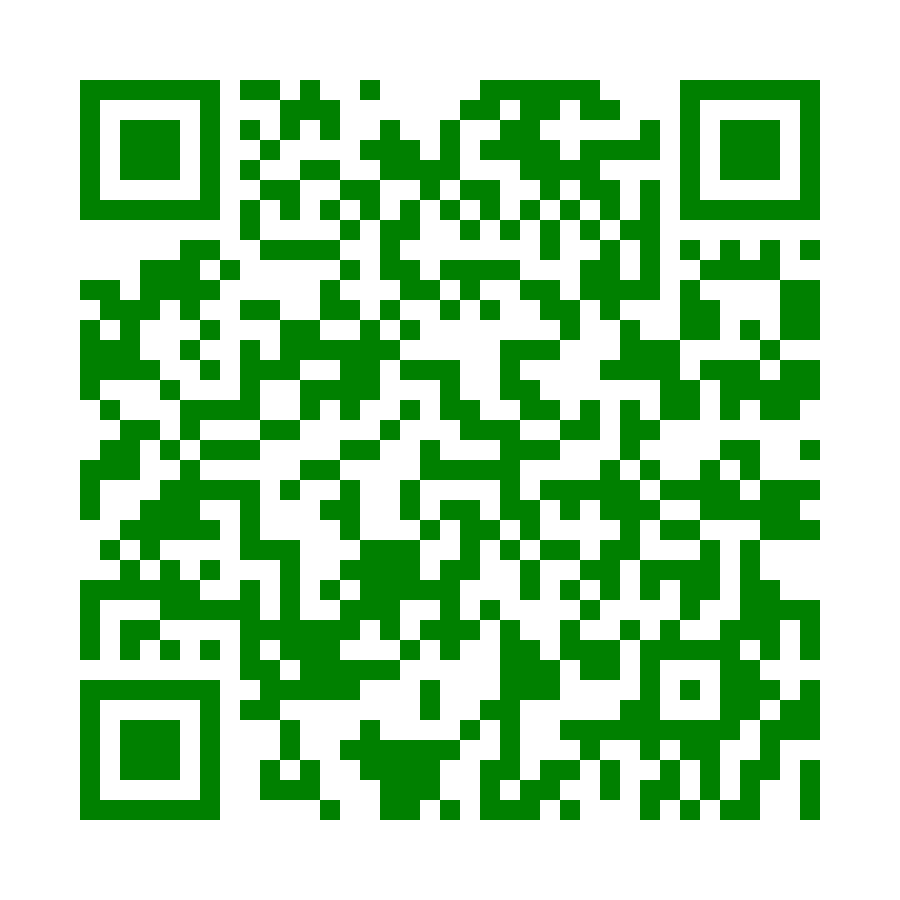
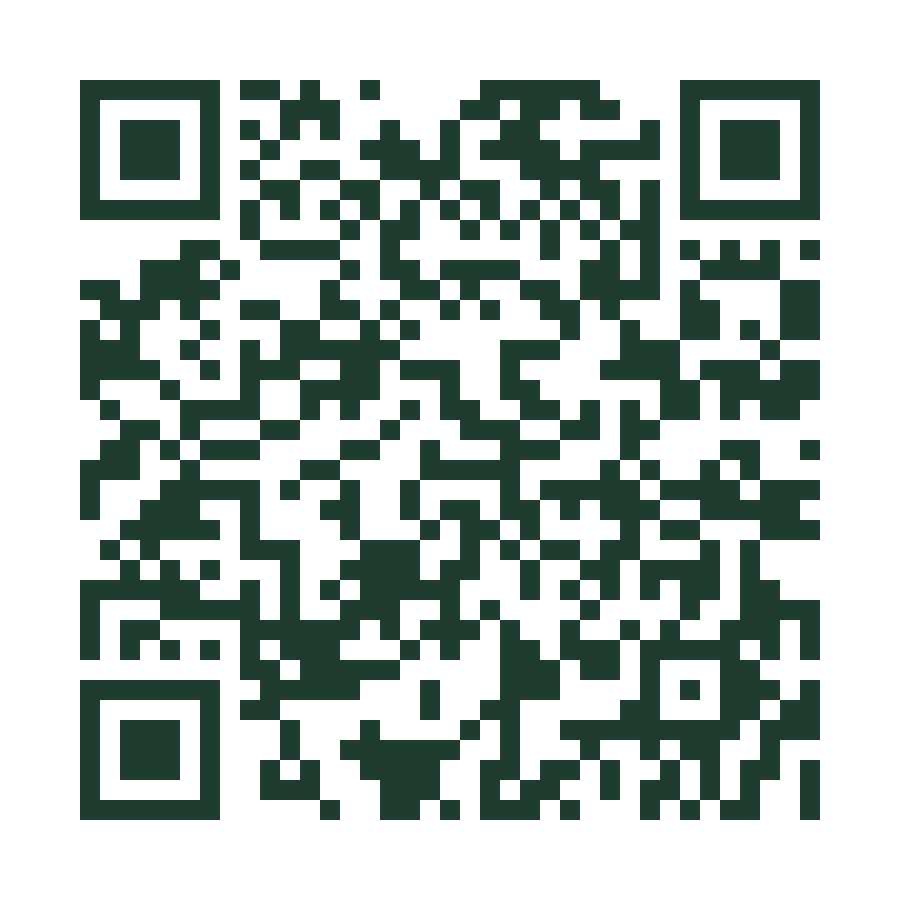
cambio de color del codigo QR

diff --git a/tools/generar_qr.py b/tools/generar_qr.py
@@ -18,7 +18,7 @@ qr.make(fit=True)
 
 #4 generar imagen
 image = qr.make_image(
-fill_color="green",
+fill_color="#1E3D2F",
 back_color="white"
 )
 
